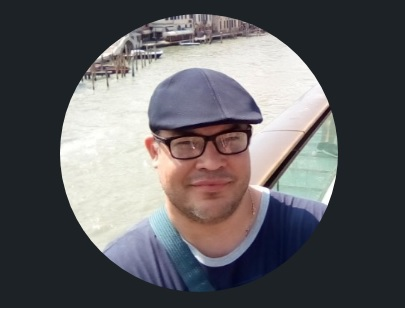
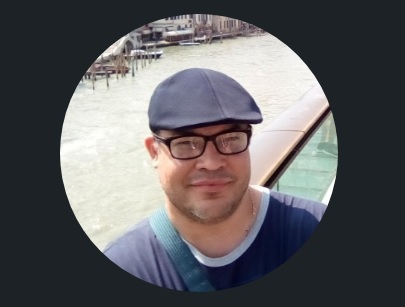
Tarea M2U1

diff --git a/CV.html b/CV.html
@@ -11,7 +11,7 @@
         <div align = "center">
             <!-- h1 Se utiliza solo una vez porque se utiliza para el posicionamiento-->   
             <h1><a id="HipervinculoTitulo" href="http://martinrodriguez.es" target="_blank" >MARTIN RODRIGUEZ</a></h1>
-            <div style="background-color: #000000" > <img src="img/MartinRod314.jpg" alt="Mi Fotografia"> </div>
+            <div > <img class ="Foto" src="img/MartinRod314.jpg" alt="Mi Fotografia" > </div>
             <br><br><br>
             
             <!--Se usa para insertar contenido de audio -->
@@ -21,24 +21,28 @@
         <h3>EDAD: 41 Años</h3>
         <h3>DOMICILIO: Napenay 2.165 | Resistencia | Chaco</h3>
      
-        <h4>¿Que series me gustan?</h4>
-        <ul class="Listado">
-            <!--Mi Serie Favorita-->
-            <li style="color: greenyellow; font-family: 'Lucida Sans', 'Lucida Sans Regular', 'Lucida Grande', 'Lucida Sans Unicode', Geneva, Verdana, sans-serif;">Obi Wan Kenobi</li>
-            <li>The Mandalorian</li>
-            <li>The Book of Boba Fett</li>
-            <li>Rick and Morty</li>
-        </ul>  
-
-        <h4>¿Que pelis son las que mas me gustaron?</h4>
-        <ol class="Listado">
-            <li>SpiderHead</li>
-            <li>The Adam Project</li>
-            <!--Mi Pelicula Favorita-->
-            <li style="color: greenyellow;font-family: 'Lucida Sans', 'Lucida Sans Regular', 'Lucida Grande', 'Lucida Sans Unicode', Geneva, Verdana, sans-serif;">Oblivion</li>
-            <li>Rogue One</li>
-            <li>Han Solo</li>
-        </ol>  
+        <div class="Caja">
+            <h4>¿Que series me gustan?</h4>
+            <ul class="Listado">
+                <!--Mi Serie Favorita-->
+                <li style="color: greenyellow; font-family: 'Lucida Sans', 'Lucida Sans Regular', 'Lucida Grande', 'Lucida Sans Unicode', Geneva, Verdana, sans-serif;">Obi Wan Kenobi</li>
+                <li>The Mandalorian</li>
+                <li>The Book of Boba Fett</li>
+                <li>Rick and Morty</li>
+            </ul>  
+        </div>
+        <div class="Caja">
+            <h4>¿Que pelis son las que mas me gustaron?</h4>
+            <ol class="Listado">
+                <li>SpiderHead</li>
+                <li>The Adam Project</li>
+                <!--Mi Pelicula Favorita-->
+                <li style="color: greenyellow;font-family: 'Lucida Sans', 'Lucida Sans Regular', 'Lucida Grande', 'Lucida Sans Unicode', Geneva, Verdana, sans-serif;">Oblivion</li>
+                <li>Rogue One</li>
+                <li>Han Solo</li>
+            </ol>  
+        </div>
+        
 
         <h4>Pefil</h4>
 

diff --git a/estiloCV.css b/estiloCV.css
@@ -49,6 +49,24 @@ a:hover {
     color:coral;
   }
 
+ /* class="Caja" */
 .Caja{
-    
+    width: 400px;
+    height: 200px;
+    /* gradiente*/
+    background: rgb(2,0,36);
+    background: linear-gradient(90deg, rgba(2,0,36,1) 0%, rgba(56,93,97,1) 45%, rgba(0,212,255,1) 100%);
+    /* Sombra de la Caja: Parametros EjeY, EjeX, desenfoque y Color*/
+    box-shadow: 11px 13px 15px 4px rgba(43, 53, 94, 0.65);
+    -webkit-box-shadow: 11px 13px 15px 4px rgba(43, 53, 94, 0.65);
+    -moz-box-shadow: 11px 13px 15px 4px rgba(43, 53, 94, 0.65);
+}
+
+.Foto{
+    border: 20px double #0f487d;
+    border-radius: 190px 190px 190px 190px;
+    /* Sombra de la Caja: Parametros EjeY, EjeX, desenfoque y Color*/
+    box-shadow: 11px 13px 15px 4px rgba(43, 53, 94, 0.65);
+    -webkit-box-shadow: 11px 13px 15px 4px rgba(43, 53, 94, 0.65);
+    -moz-box-shadow: 11px 13px 15px 4px rgba(43, 53, 94, 0.65);
 }
